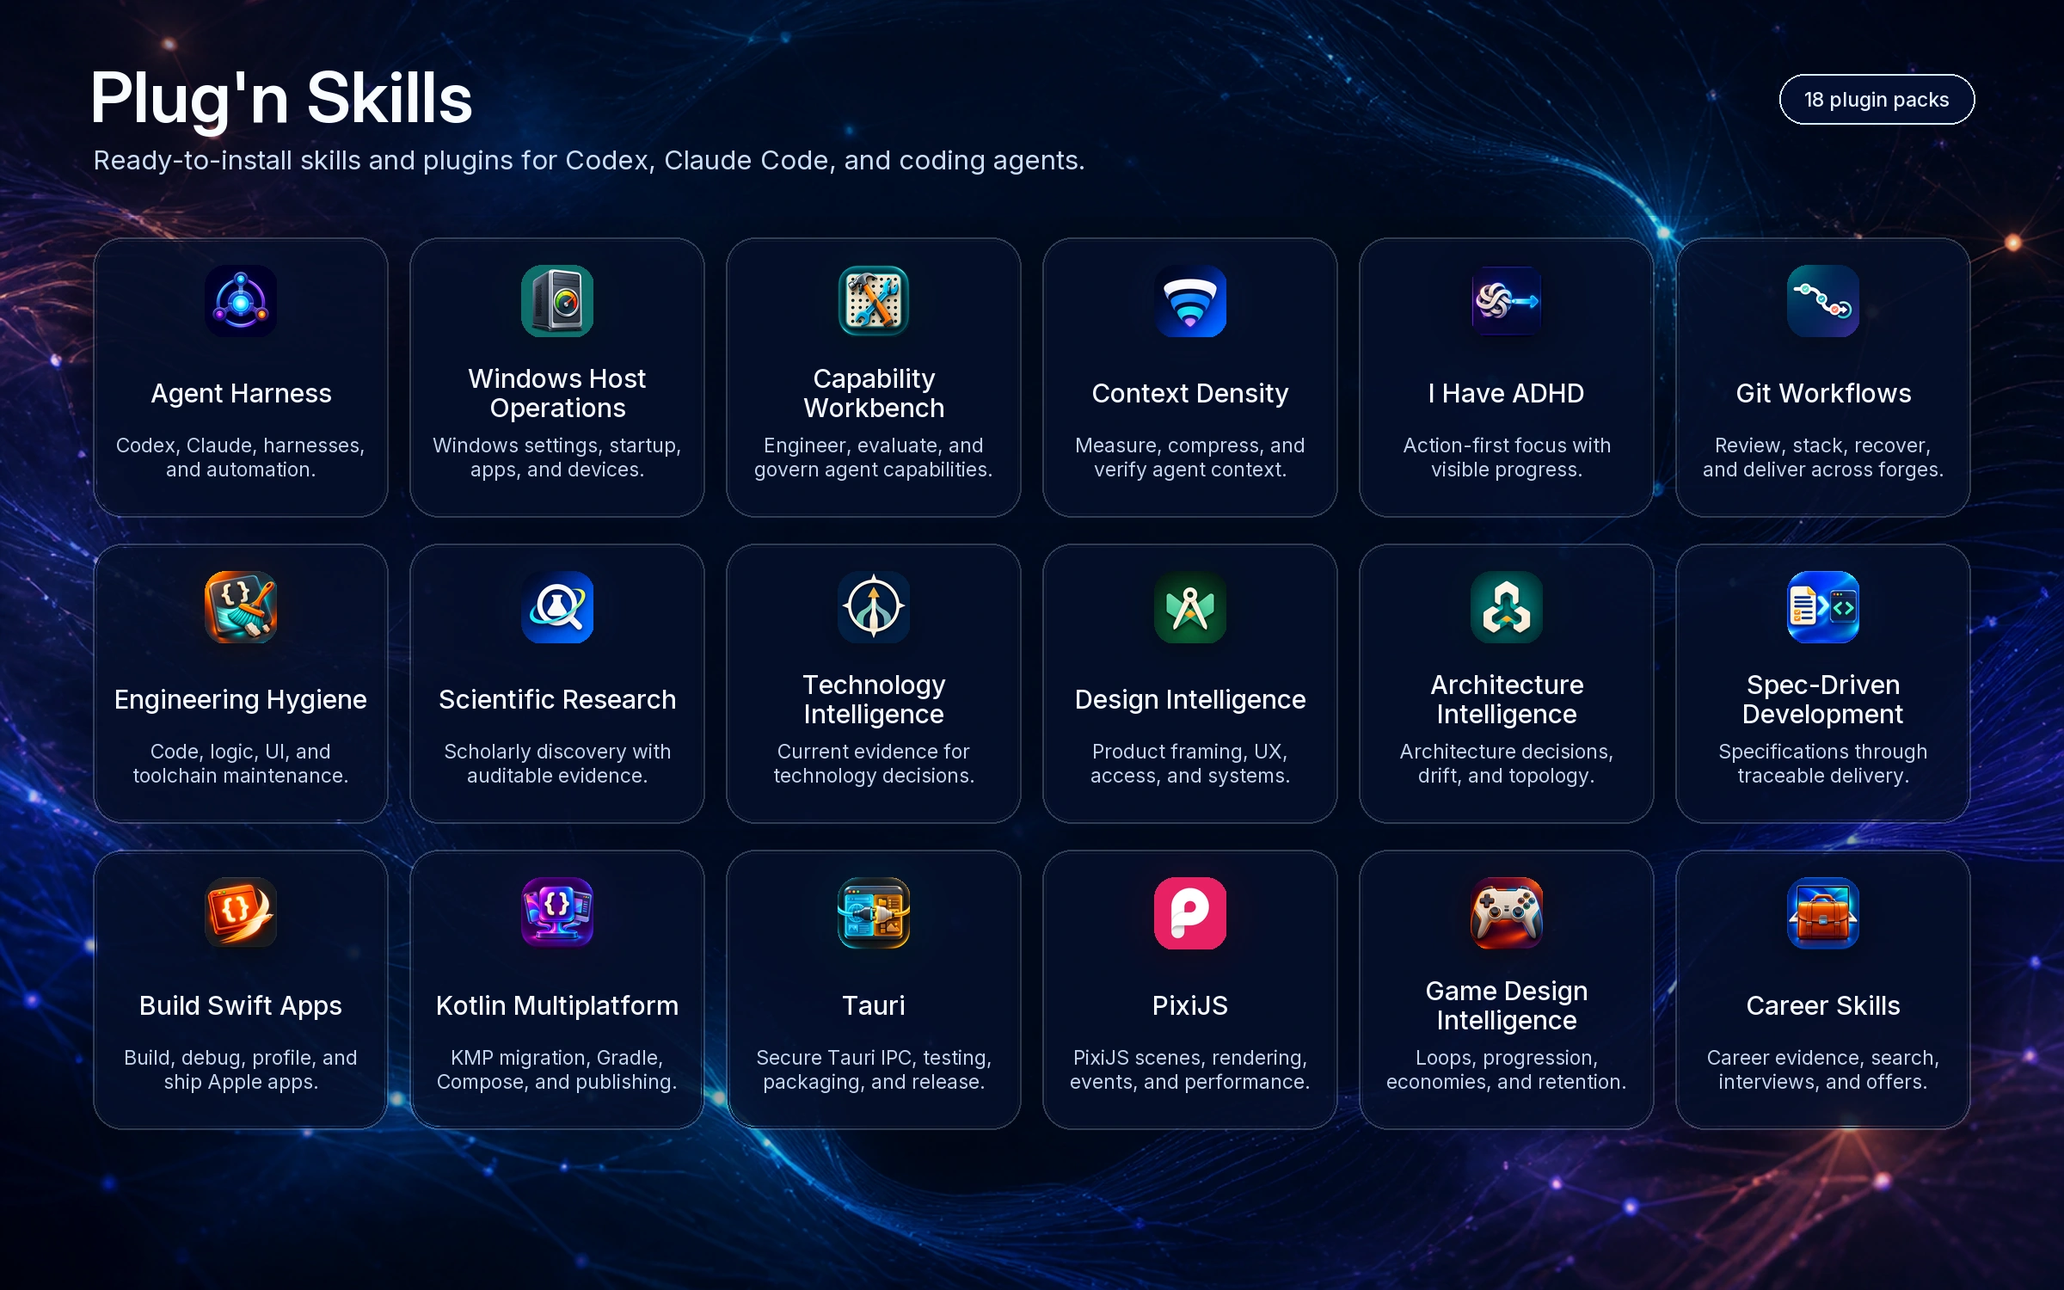
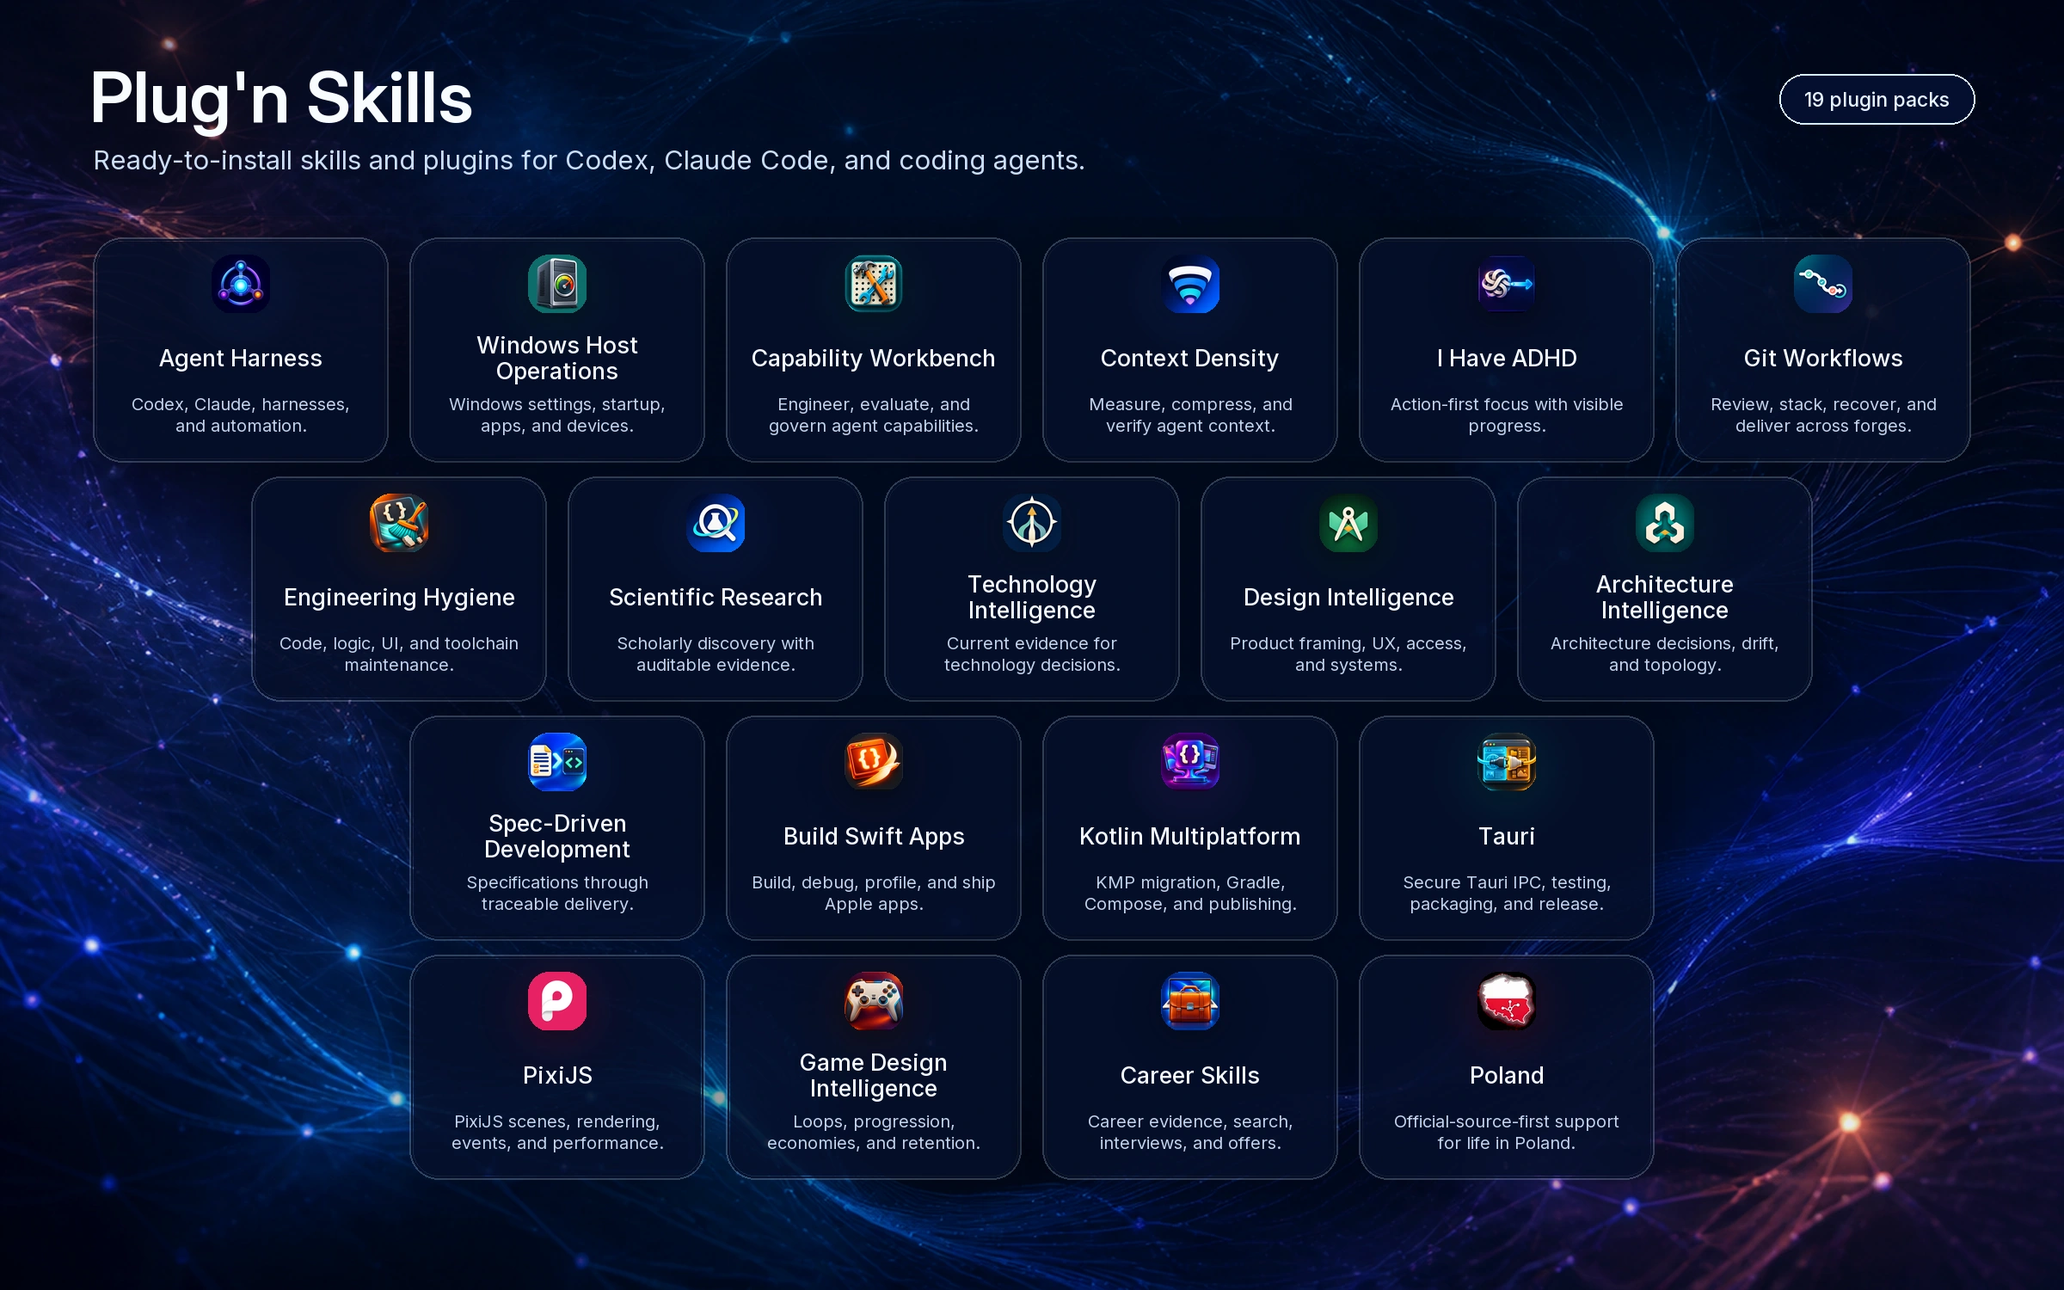
Catalog Poland as opt-in first-party plugin

diff --git a/scripts/render_plugin_dashboard_header.py b/scripts/render_plugin_dashboard_header.py
@@ -33,23 +33,27 @@ PLUGIN_LAYOUT_ROWS = [
         "i-have-adhd",
         "git-workflows",
     ],
-    # Evidence and engineering method, from discovery through maintenance.
+    # Delivery and evidence methods, from hygiene through architecture.
     [
         "engineering-hygiene",
         "scientific-research",
         "technology-intelligence",
         "design-intelligence",
         "architecture-intelligence",
-        "spec-driven-development",
     ],
-    # Product platforms and domains.
+    # Specification and product platforms.
     [
+        "spec-driven-development",
         "build-swift-apps",
         "kotlin-multiplatform",
         "tauri",
+    ],
+    # Focused product and life domains.
+    [
         "pixijs",
         "game-design-intelligence",
         "career",
+        "poland",
     ],
 ]
 
@@ -67,6 +71,7 @@ PLUGIN_SUMMARIES = {
     "git-workflows": "Review, stack, recover, and deliver across forges.",
     "kotlin-multiplatform": "KMP migration, Gradle, Compose, and publishing.",
     "pixijs": "PixiJS scenes, rendering, events, and performance.",
+    "poland": "Official-source-first support for life in Poland.",
     "scientific-research": "Scholarly discovery with auditable evidence.",
     "spec-driven-development": "Specifications through traceable delivery.",
     "technology-intelligence": "Current evidence for technology decisions.",
@@ -228,7 +233,7 @@ def ordered_rows(plugins: dict[str, PluginCard]) -> list[list[PluginCard]]:
         available = [row for row in rows if len(row) < 6]
         if not available:
             raise ValueError(
-                "Dashboard supports at most 18 plugin cards in three rows; "
+                "Dashboard supports at most 24 plugin cards in four rows; "
                 "update the canvas or card layout before adding more."
             )
         min(available, key=len).append(plugins[name])
@@ -288,9 +293,9 @@ def draw_card(
         width=1,
     )
 
-    icon_size = 84
+    icon_size = 68
     icon_x = (width - icon_size) // 2
-    icon_y = 32
+    icon_y = 20
 
     glow = Image.new("RGBA", (184, 184), (0, 0, 0, 0))
     glow_draw = ImageDraw.Draw(glow)
@@ -312,7 +317,7 @@ def draw_card(
     title_lines = wrap_lines(draw, card.display_name, title_font, width - 48, 2)
     if any(line.endswith("...") for line in title_lines):
         raise ValueError(f"Dashboard title does not fit: {card.display_name}")
-    title_y = 145 + (2 - len(title_lines)) * 17
+    title_y = 108 + (2 - len(title_lines)) * 15
     draw_centered_lines(
         draw,
         title_lines,
@@ -320,7 +325,7 @@ def draw_card(
         title_y,
         title_font,
         (245, 249, 255, 255),
-        34,
+        30,
     )
 
     summary_lines = wrap_lines(draw, card.summary, body_font, width - 52, 2)
@@ -330,10 +335,10 @@ def draw_card(
         draw,
         summary_lines,
         width // 2,
-        227,
+        181,
         body_font,
         (202, 218, 239, 248),
-        28,
+        25,
     )
 
     canvas.alpha_composite(panel, (x, y))
@@ -358,8 +363,8 @@ def render(background_path: Path, output_path: Path, quality: int = WEBP_QUALITY
         "hero": load_font("semibold", 82),
         "subtitle": load_font("regular", 31),
         "eyebrow": load_font("medium", 23),
-        "title": load_font("medium", 30),
-        "body": load_font("regular", 23),
+        "title": load_font("medium", 27),
+        "body": load_font("regular", 20),
     }
 
     draw = ImageDraw.Draw(canvas)
@@ -388,8 +393,8 @@ def render(background_path: Path, output_path: Path, quality: int = WEBP_QUALITY
 
     rows = ordered_rows(plugins)
     card_w = 344
-    card_h = 326
-    row_gap = 30
+    card_h = 262
+    row_gap = 16
     col_gap = 24
     grid_y = 276
     for row_index, row in enumerate(rows):

diff --git a/scripts/tests/test_repo_structure.py b/scripts/tests/test_repo_structure.py
@@ -50,6 +50,7 @@ PLUGINS = [
     "pixijs",
     "game-design-intelligence",
     "career",
+    "poland",
 ]
 
 
@@ -377,6 +378,44 @@ class RepoStructureTest(unittest.TestCase):
         self.assertRegex(plugin["source"]["commit"], r"^[0-9a-f]{40}$")
         self.assertFalse((ROOT / "plugins" / "career").exists())
 
+    def test_poland_is_an_opt_in_pinned_standalone_first_party_plugin(self):
+        self.assertIn("poland", FIRST_PARTY)
+        plugin = FIRST_PARTY["poland"]
+        receipt = plugin_catalog.receipt_for(ROOT, plugin)
+        expected_skills = {
+            "poland",
+            "poland-appeals-review",
+            "poland-benefits-support",
+            "poland-business",
+            "poland-case-planning",
+            "poland-citizenship-long-term",
+            "poland-consumer-banking",
+            "poland-digital-government",
+            "poland-emergency-rights",
+            "poland-employment-rights",
+            "poland-eu-mobility",
+            "poland-family-education",
+            "poland-foreign-documents",
+            "poland-healthcare",
+            "poland-housing",
+            "poland-identity",
+            "poland-local-services",
+            "poland-protection-referral",
+            "poland-social-insurance",
+            "poland-source-verification",
+            "poland-stay-residence",
+            "poland-tax",
+            "poland-transport-driving",
+            "poland-work-authorization",
+        }
+        actual_skills = {item["name"] for item in receipt["skills"]["items"]}
+        self.assertEqual(expected_skills, actual_skills)
+        self.assertEqual("Xopoko/poland", plugin["source"]["repository"])
+        self.assertRegex(plugin["source"]["commit"], r"^[0-9a-f]{40}$")
+        self.assertFalse(plugin["selection"]["default"])
+        self.assertNotIn("poland", plugin_catalog.default_plugin_names(CATALOG))
+        self.assertFalse((ROOT / "plugins" / "poland").exists())
+
     def test_retired_plugin_directories_are_absent(self):
         for name in ("codex-cli", "claude-code", "scheduled-automation"):
             self.assertFalse(
@@ -426,7 +465,7 @@ class RepoStructureTest(unittest.TestCase):
             "missing dashboard header renderer",
         )
 
-    def test_dashboard_layout_matches_the_canonical_three_row_catalog(self):
+    def test_dashboard_layout_matches_the_canonical_four_row_catalog(self):
         renderer = ROOT / "scripts" / "render_plugin_dashboard_header.py"
         tree = ast.parse(renderer.read_text(encoding="utf-8"))
         assignments = {
@@ -441,7 +480,8 @@ class RepoStructureTest(unittest.TestCase):
         rows = assignments["PLUGIN_LAYOUT_ROWS"]
         summaries = assignments["PLUGIN_SUMMARIES"]
         flattened = [name for row in rows for name in row]
-        self.assertEqual([6, 6, 6], [len(row) for row in rows])
+        self.assertEqual([6, 5, 4, 4], [len(row) for row in rows])
+        self.assertTrue(all(len(row) <= 6 for row in rows))
         self.assertEqual(PLUGINS, flattened)
         self.assertEqual(set(PLUGINS), set(summaries))
 

diff --git a/README.md b/README.md
@@ -82,7 +82,7 @@ before writing global state:
 python3 scripts/install-codex-plugins.py --dry-run
 ```
 
-Install or refresh every plugin from this checkout:
+Install or refresh every locally maintained plugin from this checkout:
 
 ```bash
 python3 scripts/install-codex-plugins.py
@@ -98,14 +98,21 @@ python3 scripts/install-codex-plugins.py \
   --plugin spec-driven-development
 ```
 
-`build-swift-apps` and `career` are first-party standalone plugins maintained in
-their own repositories. They remain available through this collection, but the
-helpers do not fetch them during a default bulk install. Select one explicitly
-or include catalog entries marked as default:
+`build-swift-apps`, `career`, and `poland` are first-party standalone plugins
+maintained in their own repositories. They remain visible through this
+collection, but the helpers do not fetch them during a default bulk install.
+Select one explicitly or include only catalog entries marked as default:
 
 ```bash
 python3 scripts/install-codex-plugins.py --plugin career
 python3 scripts/install-codex-plugins.py --include-first-party
+```
+
+`poland` is deliberately catalog-only by default and is not selected even by
+`--include-first-party`. Install its reviewed pin only with an explicit choice:
+
+```bash
+python3 scripts/install-codex-plugins.py --plugin poland
 ```
 
 Exclude plugin packs that are not useful on the current host:
@@ -200,6 +207,7 @@ replaced to match the repository source, and repeated runs converge.
 | `pixijs` | PixiJS v8 application setup, scene graph, rendering, assets, events, filters, migration, and performance. |
 | `game-design-intelligence` | Gameplay loops, systems, progression, economies, motivation, retention, onboarding, difficulty, multiplayer, and live-service critique. |
 | `career` | Evidence-first career direction, market research, opportunity search and analysis, materials, applications, networking, recruiter coordination, interviews, offers, development, and pipeline learning. |
+| `poland` | Official-source-first support for residents, immigrants, and expats navigating residence, work, tax, documents, healthcare, and daily administration in Poland. |
 
 See [plugins/README.md](plugins/README.md) for the per-plugin source index and
 manifest identifiers.
@@ -261,13 +269,13 @@ a prompt or makes visible to a model at runtime.
 
 | Metric | Count | Tokens | Notes |
 | --- | ---: | ---: | --- |
-| Plugin packs | 18 | - | Local packages plus immutable standalone first-party catalog entries. |
-| Skill entrypoints | 205 | - | `SKILL.md` files catalogued in local source or immutable receipts. |
-| Reference files | 281 | - | Longer ledgers, contracts, scorecards, and source notes. |
-| Script/support files | 103 | - | All regular files below `scripts/`, including helpers, templates, and manifests. |
-| Source-relative routing estimate | 205 skills | 13,467 | Skill name, description, and plugin-relative `skills/.../SKILL.md` path; comparable across local and standalone sources. |
-| Published first-party URL locator snapshot | 81 skills | 8,175 | Receipt values that serialize immutable GitHub blob URLs; preserved separately and not added to the source-relative total. |
-| Skill body source estimate | 205 skills | 151,712 | Body text after frontmatter; not proof that a host loads it, or when. |
+| Plugin packs | 19 | - | Local packages plus immutable standalone first-party catalog entries. |
+| Skill entrypoints | 229 | - | `SKILL.md` files catalogued in local source or immutable receipts. |
+| Reference files | 294 | - | Longer ledgers, contracts, scorecards, and source notes. |
+| Script/support files | 107 | - | All regular files below `scripts/`, including helpers, templates, and manifests. |
+| Source-relative routing estimate | 229 skills | 14,495 | Skill name, description, and plugin-relative `skills/.../SKILL.md` path; comparable across local and standalone sources. |
+| Published first-party URL locator snapshot | 105 skills | 9,995 | Receipt values that serialize immutable GitHub blob URLs; preserved separately and not added to the source-relative total. |
+| Skill body source estimate | 229 skills | 159,689 | Body text after frontmatter; not proof that a host loads it, or when. |
 
 Regenerate the report after skill edits:
 
@@ -304,6 +312,7 @@ immutable GitHub locator snapshot.
 | `pixijs` | 26 | 64 | 0 | 1,707 | - | 7,967 |
 | `game-design-intelligence` | 6 | 2 | 1 | 416 | - | 2,916 |
 | `career` | 20 | 21 | 4 | 1,173 | 1,853 | 9,857 |
+| `poland` | 24 | 13 | 4 | 1,028 | 1,820 | 7,977 |
 
 ### Plugin Focus
 
@@ -327,6 +336,7 @@ immutable GitHub locator snapshot.
 | `pixijs` | PixiJS v8 scene tooling builds and debugs Applications, assets, events, filters, shaders, performance, v7 migrations, and create-pixi projects. |
 | `game-design-intelligence` | Game design judgment grounded in evidence: core loops, gameplay systems, progression/economy/balance, motivation/retention, onboarding/difficulty, and multiplayer/live-service health; excludes engines, graphics, assets, and code. |
 | `career` | Evidence-first career support for direction, research, job discovery, materials, applications and campaigns, inbox and recruiter coordination, interviews, offers, operations, development, and data governance. |
+| `poland` | Official-source-first Poland support for residents, immigrants, and expats: residence, work, tax, documents, healthcare, and daily administration with dated evidence, offline tools, and strict user-only action boundaries. |
 
 ### Skill Token Index
 
@@ -628,6 +638,35 @@ size. None is a runtime prompt measurement.
 | `opportunity-analysis` | 64 | 98 | 457 | Opportunity analysis maps a posting to verified evidence, hard constraints, gaps, employer signals, scam risks, and a transparent apply, clarify, defer, or decline recommendation. Triggers on pasted text or a job URL. |
 | `opportunity-search` | 61 | 95 | 508 | Opportunity search finds, normalizes, filters, deduplicates, and ranks fresh job leads under an explicit or discoverable policy and authorized sources. Excludes fit decisions on one posting and application submission. |
 | `recruiter-coordination` | 58 | 92 | 426 | Recruiter coordination reconciles messages and calendars, distinguishes chat, proposed slot, and confirmed interview, drafts responses, and records follow-ups without sending or booking until approved. |
+
+#### `poland`
+
+| Skill | Source routing | Published URL routing | Body source | Description |
+| --- | ---: | ---: | ---: | --- |
+| `poland` | 29 | 62 | 827 | Poland router. Use when topics cross domains. |
+| `poland-appeals-review` | 49 | 82 | 255 | Administrative review. Use for a Polish refusal, delay, supplementation request, appeal, or missed procedural step. |
+| `poland-benefits-support` | 46 | 79 | 275 | Benefits support. Use for Polish family benefits, social assistance, disability support, or Empatia routes. |
+| `poland-business` | 31 | 64 | 287 | Business. Use when Polish registries matter. |
+| `poland-case-planning` | 42 | 75 | 299 | Case planning. Use when Poland deadlines and multi-step procedures need a transient plan. |
+| `poland-citizenship-long-term` | 56 | 89 | 282 | Long-term status. Use for Polish permanent residence, EU long-term resident status, or citizenship routes; not temporary residence. |
+| `poland-consumer-banking` | 37 | 70 | 264 | Consumer routes. Use when Polish complaints matter. |
+| `poland-digital-government` | 43 | 76 | 458 | Digital government. Use for public Polish portal guidance and exact official landing-page handoff. |
+| `poland-emergency-rights` | 39 | 72 | 292 | Emergency rights. Use when danger or urgent escalation arises. |
+| `poland-employment-rights` | 52 | 85 | 232 | Employment rights. Use for Polish contracts, pay, leave, hours, termination, workplace safety, or PIP complaints. |
+| `poland-eu-mobility` | 42 | 75 | 308 | EU mobility. Use when Polish free-movement status matters. |
+| `poland-family-education` | 49 | 82 | 244 | Family and education. Use for Polish childcare, school, university, or family administration; not benefits or residence status. |
+| `poland-foreign-documents` | 52 | 85 | 242 | Foreign documents. Use for apostille, legalization, sworn translation, diploma recognition, or regulated-profession routing in Poland. |
+| `poland-healthcare` | 35 | 68 | 283 | Healthcare. Use when NFZ or IKP matters. |
+| `poland-housing` | 32 | 65 | 297 | Housing. Use when Polish tenancy matters. |
+| `poland-identity` | 35 | 68 | 291 | Identity. Use when PESEL or meldunek matters. |
+| `poland-local-services` | 34 | 67 | 291 | Local services. Use when Polish office ownership varies. |
+| `poland-protection-referral` | 50 | 83 | 263 | Protection referral. Use for asylum, international or temporary protection, unsafe return, or loss of protection in Poland. |
+| `poland-social-insurance` | 50 | 83 | 263 | Social insurance. Use for Polish ZUS or eZUS registration, contributions, coverage records, or cross-border coordination. |
+| `poland-source-verification` | 37 | 70 | 342 | Source checks. Use when Polish facts may be stale. |
+| `poland-stay-residence` | 55 | 88 | 503 | Stay and residence. Use for Polish visas, legal stay, temporary residence, or residence cards; not protection, citizenship, or appeals. |
+| `poland-tax` | 47 | 80 | 276 | Poland tax. Use for PIT, tax-residence orientation, tax identifiers, e-Tax Office, or official filing routes. |
+| `poland-transport-driving` | 37 | 70 | 404 | Transport. Use when Polish licences or passenger rights matter. |
+| `poland-work-authorization` | 49 | 82 | 499 | Work authorization. Use for permission to work in Poland, employer permits, declarations, notifications, or labour-market access. |
 
 ## Repository Design
 

diff --git a/plugins/README.md b/plugins/README.md
@@ -38,6 +38,10 @@ They are not duplicated under `plugins/`.
 | --- | --- | --- | --- |
 | `build-swift-apps` | [Xopoko/build-swift-apps](https://github.com/Xopoko/build-swift-apps) | `build-swift-apps@local` | `build-swift-apps@xopoko-plug-n-skills` |
 | `career` | [Xopoko/career-skills](https://github.com/Xopoko/career-skills) | `career@local` | `career@xopoko-plug-n-skills` |
+| `poland` | [Xopoko/poland](https://github.com/Xopoko/poland) | `poland@local` | `poland@xopoko-plug-n-skills` |
+
+Poland is catalogued for discovery but is deliberately opt-in: default installs
+and `--include-first-party` do not select it. Use `--plugin poland` explicitly.
 
 See [Standalone First-Party Plugins](../docs/STANDALONE_PLUGINS.md) for pin,
 receipt, offline-cache, and installer rules.

diff --git a/docs/ARCHITECTURE.md b/docs/ARCHITECTURE.md
@@ -236,8 +236,10 @@ Claude Code uses the root marketplace:
 /plugin install capability-workbench@xopoko-plug-n-skills
 ```
 
-Each marketplace entry points to `./plugins/<name>`, where Claude reads that
-plugin's `.claude-plugin/plugin.json` and shared `skills/` directory.
+Repository-owned entries point to `./plugins/<name>`. Standalone first-party
+entries point to an immutable GitHub commit recorded in
+`first-party-plugins.lock.json`; Claude reads that pinned plugin's manifest and
+skills from the marketplace source.
 
 ## Flow
 
